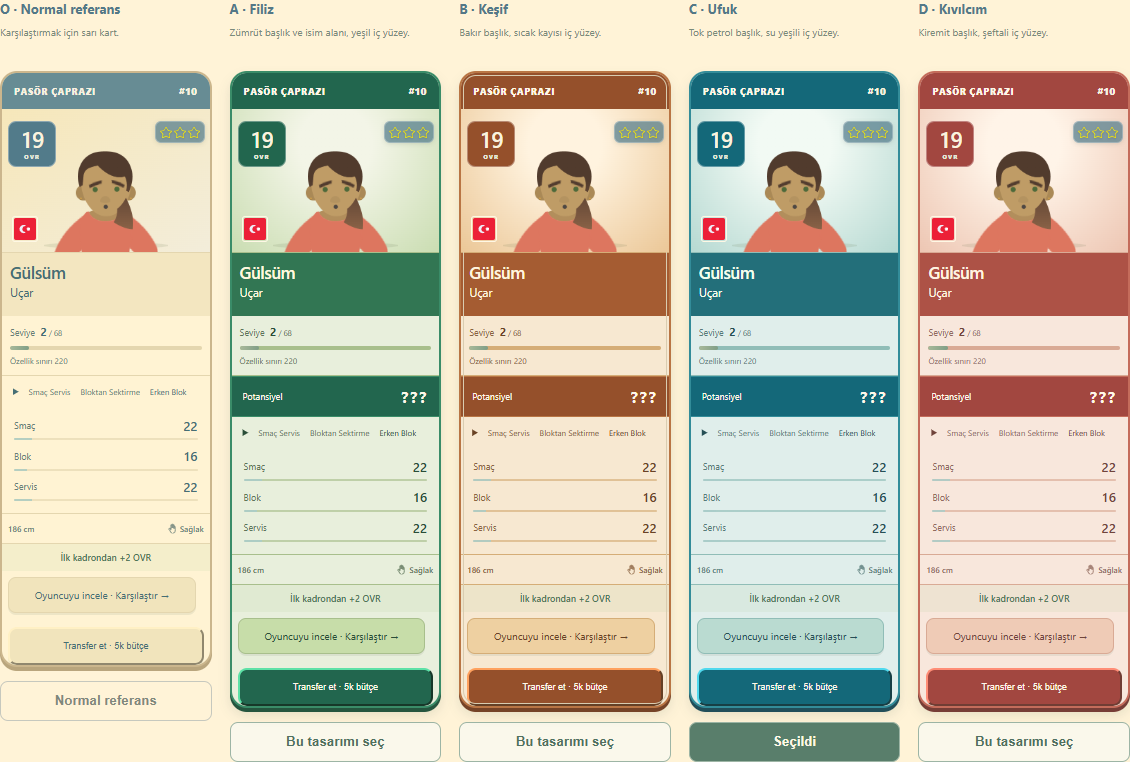
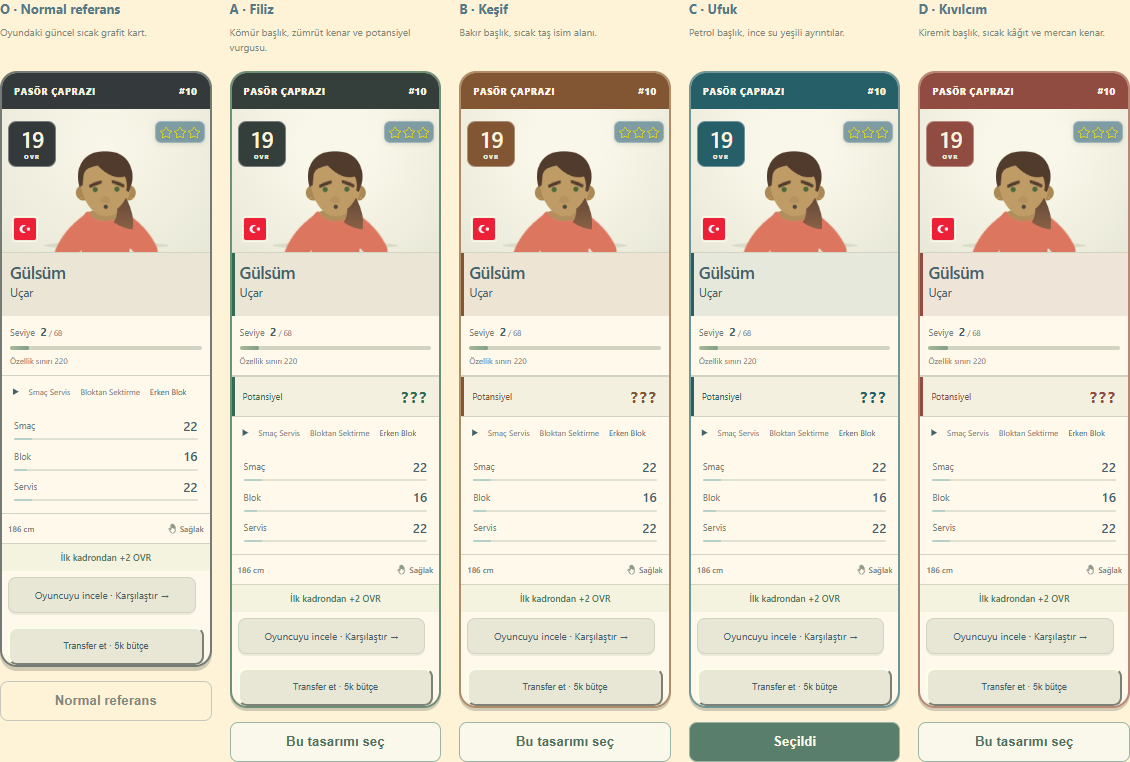
Adapt potential card alternatives to the warm graphite card set

diff --git a/elite-design-preview.js b/elite-design-preview.js
@@ -5,10 +5,10 @@ function card(className,potential=false){
  if(potential){const note=document.createElement('div');note.className='card-potential';note.innerHTML='<span>Potansiyel</span><strong>???</strong>';note.title='Mezuniyet gücü eğitim sonunda belli olur. Şimdiki OVR üstte gösterilir.';el.querySelector('.card-cap').after(note);}
  return el;
 }
-const stages=[['growing','01 · Siyah','Grafit yüzey, mat siyah başlık.'],['specialist','02 · Gümüş','Fırçalanmış gümüş, çelik ayrıntılar.'],['contender','03 · Altın','Sıcak altın yüzey, bronz kenar.'],['elite-player','04 · Mor','Ametist başlık, mor elit yüzey.']];
+const stages=[['growing','01 · Siyah','Sıcak kırık beyaz, kömür başlık.'],['specialist','02 · Gümüş','Fırçalanmış gümüş, çelik ayrıntılar.'],['contender','03 · Altın','Sıcak altın yüzey, bronz kenar.'],['elite-player','04 · Mor','Ametist başlık, mor elit yüzey.']];
 for(const [type,title,copy]of stages){const article=document.createElement('article');article.dataset.tier=type;const h=document.createElement('h3');h.textContent=title;const p=document.createElement('p');p.textContent=copy;article.append(h,p,card(type));document.getElementById('cardProgression').append(article);}
-const families=[['O','Normal referans','Karşılaştırmak için sarı kart.'],['A','Filiz','Zümrüt başlık ve isim alanı, yeşil iç yüzey.'],['B','Keşif','Bakır başlık, sıcak kayısı iç yüzey.'],['C','Ufuk','Tok petrol başlık, su yeşili iç yüzey.'],['D','Kıvılcım','Kiremit başlık, şeftali iç yüzey.']];
-for(const [id,name,copy]of families){const article=document.createElement('article');article.className='option-'+id;const h=document.createElement('h3');h.textContent=id+' · '+name;const p=document.createElement('p');p.textContent=copy;const face=card(id==='O'?'yellow':'potential-player',id!=='O');face.dataset.designVariant=id;const pick=document.createElement('button');pick.type='button';pick.className='elite-pick';pick.disabled=id==='O';pick.textContent=id==='O'?'Normal referans':'Bu tasarımı seç';pick.setAttribute('aria-pressed','false');pick.onclick=()=>{document.querySelectorAll('.elite-pick:not(:disabled)').forEach(b=>{b.setAttribute('aria-pressed',String(b===pick));b.textContent=b===pick?'Seçildi':'Bu tasarımı seç';});parent.postMessage({type:'elite-design-choice',name:id+' · '+name,kind:'academy-potential'},'*');};article.append(h,p,face,pick);document.getElementById('eliteOptions').append(article);}
+const families=[['O','Normal referans','Oyundaki güncel sıcak grafit kart.'],['A','Filiz','Kömür başlık, zümrüt kenar ve potansiyel vurgusu.'],['B','Keşif','Bakır başlık, sıcak taş isim alanı.'],['C','Ufuk','Petrol başlık, ince su yeşili ayrıntılar.'],['D','Kıvılcım','Kiremit başlık, sıcak kâğıt ve mercan kenar.']];
+for(const [id,name,copy]of families){const article=document.createElement('article');article.className='option-'+id;const h=document.createElement('h3');h.textContent=id+' · '+name;const p=document.createElement('p');p.textContent=copy;const face=card(id==='O'?'normal-reference':'potential-player',id!=='O');face.dataset.designVariant=id;const pick=document.createElement('button');pick.type='button';pick.className='elite-pick';pick.disabled=id==='O';pick.textContent=id==='O'?'Normal referans':'Bu tasarımı seç';pick.setAttribute('aria-pressed','false');pick.onclick=()=>{document.querySelectorAll('.elite-pick:not(:disabled)').forEach(b=>{b.setAttribute('aria-pressed',String(b===pick));b.textContent=b===pick?'Seçildi':'Bu tasarımı seç';});parent.postMessage({type:'elite-design-choice',name:id+' · '+name,kind:'academy-potential'},'*');};article.append(h,p,face,pick);document.getElementById('eliteOptions').append(article);}
 let lastHeight=0;function reportHeight(){const height=Math.ceil(document.getElementById('scoutDialog').getBoundingClientRect().height)+1;if(height===lastHeight)return;lastHeight=height;parent.postMessage({type:'card-design-size',height},'*');}
 new ResizeObserver(reportHeight).observe(document.getElementById('scoutDialog'));addEventListener('load',reportHeight);
 })();

diff --git a/elite-design-preview.css b/elite-design-preview.css
@@ -74,3 +74,21 @@ html #scoutDialog #cardProgression .yellow:not(.has-inline-comparison){border:2p
 #scoutDialog #cardProgression .specialist .card-name{background:linear-gradient(115deg,#ccd5da,#aabac5,#e0e6e8)!important}
 #scoutDialog #cardProgression .contender .card-name{background:linear-gradient(115deg,#b08132,#c59b48,#a7762d)!important}
 @media(max-width:760px){#cardProgression.card-lab-grid{grid-template-columns:repeat(2,minmax(0,1fr))}}
+/* Potential studies follow the current warm graphite production card. */
+#scoutDialog #eliteOptions :is(.option-A,.option-B,.option-C,.option-D) .potential-player{--club-paper:#fff9eb;--club-soft:#e8e8d8;--club-name:#eae5d5;--club-port:#f9f7e9;--club-ink:#42616a;--club-muted:#758074;--club-line:#d0d4c1;--club-action:#e8e7d6;--club-shadow:#74796b55;--potential-name-ink:#42616a;--potential-accent:#326b54;--club-edge:#6e9077}
+#scoutDialog #eliteOptions .option-A .potential-player{--club-kit:#343e3b;--potential-accent:#326b54;--club-edge:#6e9077}
+#scoutDialog #eliteOptions .option-B .potential-player{--club-kit:#825533;--potential-accent:#825533;--club-edge:#b08c67;--club-name:#eee4d3}
+#scoutDialog #eliteOptions .option-C .potential-player{--club-kit:#275f69;--potential-accent:#275f69;--club-edge:#709697;--club-name:#e5e8db}
+#scoutDialog #eliteOptions .option-D .potential-player{--club-kit:#914c42;--potential-accent:#914c42;--club-edge:#b98773;--club-name:#efe4d8}
+#scoutDialog #eliteOptions .potential-player .card-name{border-bottom:1px solid var(--club-line);box-shadow:inset 3px 0 var(--potential-accent)}
+#scoutDialog #eliteOptions .potential-player .card-potential{background:#f4f0df;color:var(--potential-accent);border-block:1px solid var(--club-line);box-shadow:inset 3px 0 var(--potential-accent)}
+#scoutDialog #eliteOptions .potential-player .card-potential strong{color:var(--potential-accent)}
+#scoutDialog #eliteOptions .potential-player .scout-hire{background:var(--club-action)!important;color:var(--club-ink)!important;border-color:var(--club-line)!important}
+#scoutDialog #eliteOptions .potential-player .player-overall{background:var(--club-kit)!important}
+html #scoutDialog #eliteOptions .potential-player:not(.has-inline-comparison){box-shadow:0 3px var(--club-shadow)!important}
+#scoutDialog #eliteOptions .option-B .potential-player{outline:none}
+#scoutDialog #eliteOptions .normal-reference,#scoutDialog #cardProgression .growing{--club-kit:#343a3b;--club-edge:#747a75;--club-shadow:#74796b55;--club-paper:#fff9eb;--club-soft:#e8e8d8;--club-name:#eae5d5;--club-port:#f9f7e9;--club-ink:#42616a;--club-muted:#758074;--club-line:#d0d4c1;--club-action:#e8e7d6}
+#scoutDialog #eliteOptions .normal-reference .card-name,#scoutDialog #eliteOptions .normal-reference .card-name *,#scoutDialog #cardProgression .growing .card-name,#scoutDialog #cardProgression .growing .card-name *{color:var(--club-ink)!important}
+#scoutDialog #eliteOptions .normal-reference .card-art{background:radial-gradient(ellipse at 50% 25%,var(--club-port),var(--club-soft))!important}
+#scoutDialog #eliteOptions .normal-reference .player-overall{background:var(--club-kit)!important}
+#scoutDialog #cardProgression .growing .scout-hire{background:#dedfc9!important;color:#38565a!important;border-color:#a7b397!important}

diff --git a/card-design-preview.html b/card-design-preview.html
@@ -1,1 +1,1 @@
-<!doctype html><html lang="tr" class="elite-preview-page"><head><meta charset="utf-8"><meta name="viewport" content="width=device-width,initial-scale=1"><title>Oyuncu kartı tasarımları</title><link rel="stylesheet" href="team.css?v=bcffe6b92c1a"><link rel="stylesheet" href="styles/ui/player-club-card.css?v=6cd43a82d6d6"><link rel="stylesheet" href="styles/ui/transfer-center.css?v=7bcc2f214fba"><link rel="stylesheet" href="ui-components.css?v=7134f0d3ab29"><link rel="stylesheet" href="elite-design-preview.css?v=5feb6ebeea7c"></head><body><main id="scoutDialog"><section aria-labelledby="cardSeriesTitle"><header class="card-lab-heading"><small>KARTIN GÖRSEL GELİŞİMİ</small><h2 id="cardSeriesTitle">Siyah · Gümüş · Altın · Mor</h2><p>Aynı oyuncu ve aynı OVR. Aşamalar, kartın görünüşünü karşılaştırmak içindir.</p></header><div id="cardProgression" class="card-lab-grid"></div></section><section aria-labelledby="potentialTitle"><header class="card-lab-heading"><small>AKADEMİ · POTANSİYELLİ GENÇLER</small><h2 id="potentialTitle">Geleceği henüz belli değil.</h2><p>Şimdiki OVR görünür. Mezuniyet gücü: ???</p></header><div id="eliteOptions" class="card-lab-grid"></div></section></main><script src="card-lab-template.js?v=f9ce24745e08"></script><script src="elite-design-preview.js?v=9668b90e8529"></script></body></html>
+<!doctype html><html lang="tr" class="elite-preview-page"><head><meta charset="utf-8"><meta name="viewport" content="width=device-width,initial-scale=1"><title>Oyuncu kartı tasarımları</title><link rel="stylesheet" href="team.css?v=bcffe6b92c1a"><link rel="stylesheet" href="styles/ui/player-club-card.css?v=6cd43a82d6d6"><link rel="stylesheet" href="styles/ui/transfer-center.css?v=7bcc2f214fba"><link rel="stylesheet" href="ui-components.css?v=7134f0d3ab29"><link rel="stylesheet" href="elite-design-preview.css?v=8690d2b240a5"></head><body><main id="scoutDialog"><section aria-labelledby="cardSeriesTitle"><header class="card-lab-heading"><small>KARTIN GÖRSEL GELİŞİMİ</small><h2 id="cardSeriesTitle">Siyah · Gümüş · Altın · Mor</h2><p>Aynı oyuncu ve aynı OVR. Aşamalar, kartın görünüşünü karşılaştırmak içindir.</p></header><div id="cardProgression" class="card-lab-grid"></div></section><section aria-labelledby="potentialTitle"><header class="card-lab-heading"><small>AKADEMİ · POTANSİYELLİ GENÇLER</small><h2 id="potentialTitle">Geleceği henüz belli değil.</h2><p>Şimdiki OVR görünür. Mezuniyet gücü: ???</p></header><div id="eliteOptions" class="card-lab-grid"></div></section></main><script src="card-lab-template.js?v=f9ce24745e08"></script><script src="elite-design-preview.js?v=b1973d251d6d"></script></body></html>

diff --git a/DESIGN-SYSTEM.md b/DESIGN-SYSTEM.md
@@ -33,7 +33,7 @@ Son inceleme ve tutarlılık düzeltmeleri: 24 Ekim 2026. Bu dosya, kullanıcın
 18. Akademi mezunu aynı isim/portreyle gelir. Elit sonuç mevcut mor oyuncu kartını kullanır; beyaza yakın portre zemini ve aynı kart sırası korunur. Ayrı elit etiketi yok. Normal mezuniyet kayıp olarak gösterilmez.
 19. Akademide yön ve yetenek kararları gencin gerçek portresiyle küçük konuşma penceresinde sunulur. Genç birinci ağızdan “Hocam, hangi yönümü geliştireyim?” / “Hocam, bugün hangi yeteneği çalışayım?” diye sorar. Seçim kaydolunca kısa yanıt verir, yumuşakça kapanır. Aynı menü ziyaretinde en fazla bir otomatik konuşma; diğer gençler portrelerindeki konuşma işaretinden açılır. Kapatılan soru aynı genç/aşama için otomatik tekrarlanmaz; manuel tekrar mümkündür. Eğitim beklemez.
 20. Maç kadrosu başlığının ortasında As / Yedek switch'i bulunur. As görünümü mevcut ilk altı/liberoyu, Yedek görünümü mevcut yedek koleksiyonunu aynı yüzeyde gösterir. Switch kadroyu değiştirmez. Portre/kart anatomisi, yükseltme, pozisyon filtresi ve mevcut oyuncu değişimi korunur. Tahtadan veya transferden oyuncuya yönlendirme, oyuncunun bulunduğu görünümü açar. Rol başına özel yedek ataması ve otomatik rotasyon henüz bu görünüm geçişine dahil değildir.
-21. Kart tasarım laboratuvarında üst sırada son istek doğrultusunda dört materyal alternatifi bulunur: siyah grafit → gümüş → altın → mor elit. Gümüş ve altın isim alanlarında hafif sabit metalik geçiş vardır; gümüş isim yazısı koyudur. Başlık, OVR, isim alanı ve transfer düğmesi tok renktir; gümüş dışındaki isim yazıları krem, iç yüzey aynı rengin açık tonudur. Çerçeve ve alt gölge kimliği tamamlar; neon ve sürekli parlama yoktur. Alt sıra potansiyelli gençlerde tok zümrüt/bakır/petrol/kiremit başlık, dolu renkli isim alanı ve Potansiyel ??? şeridi kullanır. İç yüzey aynı rengin açık tonudur; eylem düğmesi ve çerçeve aynı kimliği taşır. Mor elit görünümü kullanılmaz. Mevcut OVR sayısaldır, gelecekteki güç Potansiyel ??? olarak gösterilir. Sıralama yalnız tasarım önerisidir; yeni oyun ilerleme kuralları eklemez. Karakter .86 ölçekle 8px aşağı alınır; üretim portre kırpması değişmez.
+21. Kart tasarım laboratuvarında üst sırada son istek doğrultusunda dört materyal alternatifi bulunur: siyah grafit → gümüş → altın → mor elit. Gümüş ve altın isim alanlarında hafif sabit metalik geçiş vardır; gümüş isim yazısı koyudur. Başlık, OVR, isim alanı ve transfer düğmesi tok renktir; gümüş dışındaki isim yazıları krem, iç yüzey aynı rengin açık tonudur. Çerçeve ve alt gölge kimliği tamamlar; neon ve sürekli parlama yoktur. Alt sıra potansiyelli gençler güncel sıcak normal karta uyarlanmıştır: ortak kırık beyaz gövde, açık taş isim alanı, açık düğmeler. Filiz kömür başlık/zümrüt kenar; Keşif bakır, Ufuk petrol, Kıvılcım kiremit başlık taşır. Renk ince kenarda, isim alanının sol çizgisinde ve açık zeminli Potansiyel ??? vurgusunda kullanılır. Geniş dolu renkli isim alanları ve düğmeler kaldırılmıştır. Soldaki normal referans ve üst sıranın siyah kartı güncel üretim görünümünü yansıtır. Mor elit görünümü kullanılmaz. Mevcut OVR sayısaldır, gelecekteki güç Potansiyel ??? olarak gösterilir. Sıralama yalnız tasarım önerisidir; yeni oyun ilerleme kuralları eklemez. Karakter .86 ölçekle 8px aşağı alınır; üretim portre kırpması değişmez.
 
 ### Potansiyelli genç kartı alternatifleri
 
